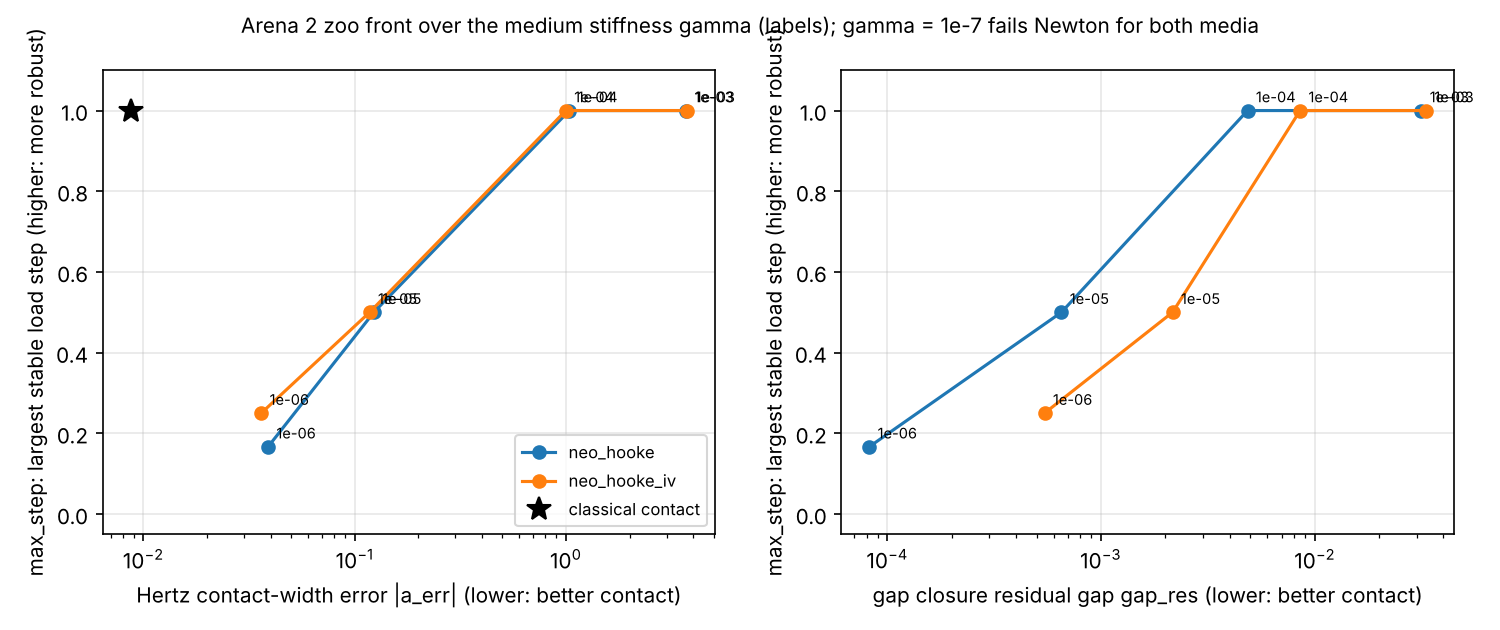
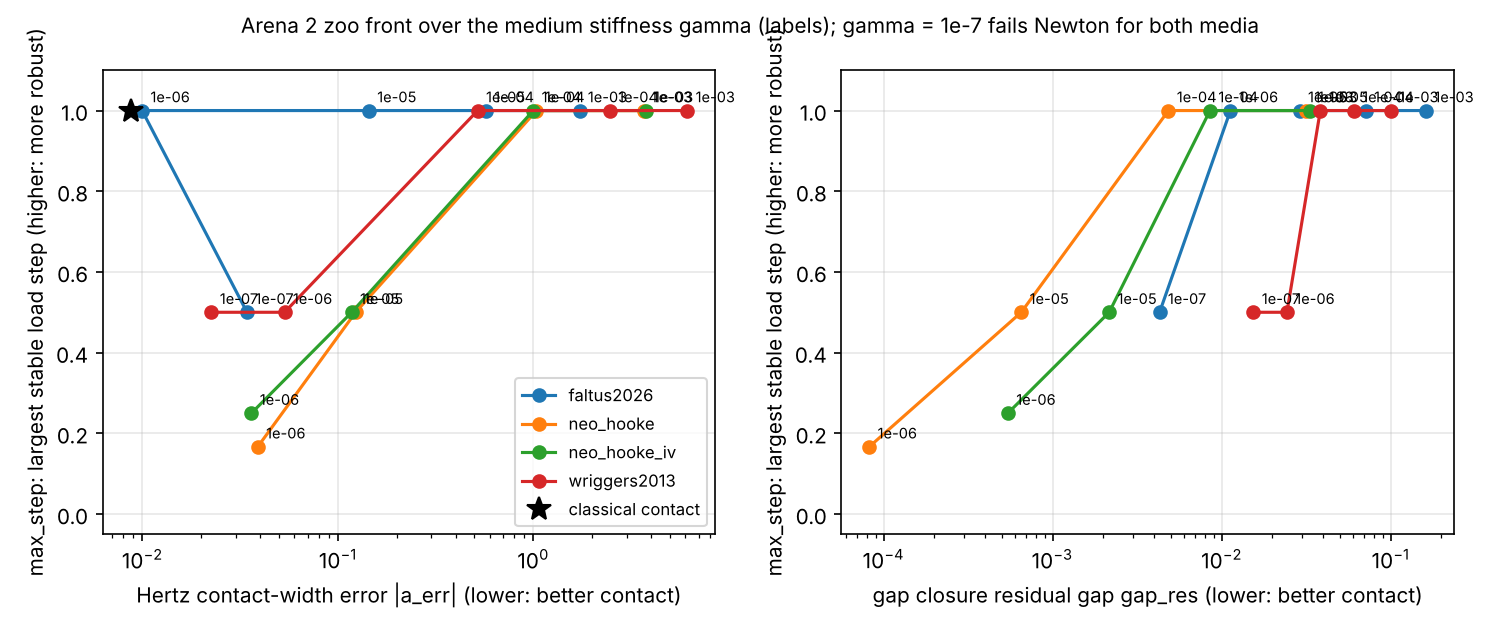
Zoo front with four media: robustness against residual gap is a second trade-off axis
Claude-Session: https://claude.ai/code/session_012NNvbST4F1YsRnWf9MuM3m

diff --git a/docs/judge/contact_baseline.md b/docs/judge/contact_baseline.md
@@ -1,24 +1,36 @@
-# Arena 2 zoo front (Phase 6 step 5, 2026-11-03, cloud session, judge contact-v0.7.dev)
+# Arena 2 zoo front (Phase 6 step 5, 2026-11-03, cloud session, judge contact-v0.8.dev)
 
 PLAN §14.7 asks whether the zoo shows the trade-off in the medium's stiffness scale γ: a softer medium leaks less
 force before contact and leaves less residual gap, but Newton becomes less robust. If it does not, Phase 7 has no
 target and Arena 2 stops here (plan Gate 6 item 4).
 
-**Result: the trade-off exists, for both zoo media.** As γ falls from 1e-3 to 1e-6, the gap-closure leak and residual
-gap fall by three orders of magnitude and the Hertz contact-width error from several hundred per cent (γ = 1e-3) to about −4 %; at the same time
-the largest stable load step falls from the whole push to 1/4–1/6, the Newton iterations rise, and at γ = 1e-7 Hertz
-no longer converges. Classical frictionless contact (no medium) sits in the ideal corner: accurate (the judge's error
-floor) and robust in one step. No zoo medium reaches it; a better medium moves the front towards it.
+**Result: the trade-off exists, and the widened zoo shows two axes of it.**
+- *Within each medium* (over γ): as γ falls, leak and Hertz error fall by orders of magnitude while Newton cost rises
+  and the largest stable load step falls; the neo-Hookean media fail at γ = 1e-7.
+- *Across media* (robustness against residual gap): the two newer media (faltus2026, wriggers2013) stay robust much
+  further. faltus2026 at γ = 1e-6 is as accurate in Hertz as the judge's error floor (a_err +1.0 %) and converges in a
+  single load step; wriggers2013 still converges at γ = 1e-7. They pay with a residual gap in gap closure of 1–4 %
+  (neo-Hookean: 0.001–0.07 % at the same γ).
+- Classical frictionless contact (no medium) sits in the ideal corner: no leak, no residual gap, accurate to the
+  error floor, one load step. No zoo medium reaches it on all axes at once.
+
+Widening the zoo mattered: a Target D drawn from the neo-Hookean media alone would have been beaten outright by the
+published 2026 medium.
 
 ![front](figures/contact_front.png)
 
 Measured with `scripts/contact_front.py` (judge functions, dev-mesh cases, not registered runs; data in
-docs/judge/baseline/contact_front.json; registered zoo runs are in STATUS). C0a: gap closure (confined), γ as
-listed. C2: Hertz on the dev mesh with the judge's fixed regularization kr = 5e-7. max_step: 1 / fewest of 1, 2, 3,
-4, 6, 8, 12 equal load steps in which C2 converges.
+docs/judge/baseline/contact_front.json; registered zoo runs are in STATUS). C0a: gap closure (confined). C2: Hertz on
+the dev mesh with the judge's fixed regularization kr = 5e-7. max_step: 1 / fewest of 1, 2, 3, 4, 6, 8, 12 equal load
+steps in which C2 converges.
 
 | Medium | γ | C0a leak_pre | C0a gap_res | C2 a_err | C2 p0_err | C2 leak_out | C2 Newton iterations | max_step |
 |---|---|---|---|---|---|---|---|---|
+| faltus2026 | 1e-03 | 3.30e-02 | 1.62e-01 | +1.723 | -0.2855 | 0.178 | 51 | 1.000 |
+| faltus2026 | 1e-04 | 3.72e-03 | 7.13e-02 | +0.572 | -0.1328 | 0.064 | 51 | 1.000 |
+| faltus2026 | 1e-05 | 3.77e-04 | 2.90e-02 | +0.144 | -0.0513 | 0.043 | 56 | 1.000 |
+| faltus2026 | 1e-06 | 3.78e-05 | 1.13e-02 | +0.010 | -0.0151 | 0.019 | 62 | 1.000 |
+| faltus2026 | 1e-07 | 3.78e-06 | 4.30e-03 | -0.034 | -0.0004 | 0.012 | 77 | 0.500 |
 | neo_hooke | 1e-03 | 1.87e-02 | 3.16e-02 | +3.702 | -0.2194 | 0.206 | 47 | 1.000 |
 | neo_hooke | 1e-04 | 1.94e-03 | 4.85e-03 | +1.038 | -0.0374 | 0.056 | 56 | 1.000 |
 | neo_hooke | 1e-05 | 1.95e-04 | 6.53e-04 | +0.123 | +0.0012 | 0.016 | 62 | 0.500 |
@@ -29,20 +41,26 @@ listed. C2: Hertz on the dev mesh with the judge's fixed regularization kr = 5e-
 | neo_hooke_iv | 1e-05 | 1.45e-04 | 2.16e-03 | +0.118 | -0.0006 | 0.015 | 69 | 0.500 |
 | neo_hooke_iv | 1e-06 | 1.45e-05 | 5.44e-04 | -0.036 | +0.0065 | 0.011 | 76 | 0.250 |
 | neo_hooke_iv | 1e-07 | 1.45e-06 | 1.37e-04 | fails | — | — | — | 0.000 |
+| wriggers2013 | 1e-03 | 5.89e-02 | 1.00e-01 | +6.132 | -0.4306 | 0.421 | 45 | 1.000 |
+| wriggers2013 | 1e-04 | 6.46e-03 | 6.07e-02 | +2.462 | -0.1003 | 0.089 | 57 | 1.000 |
+| wriggers2013 | 1e-05 | 6.53e-04 | 3.84e-02 | +0.519 | -0.0348 | 0.025 | 61 | 1.000 |
+| wriggers2013 | 1e-06 | 6.53e-05 | 2.44e-02 | +0.053 | -0.0155 | 0.014 | 68 | 0.500 |
+| wriggers2013 | 1e-07 | 6.54e-06 | 1.54e-02 | -0.023 | -0.0060 | 0.011 | 74 | 0.500 |
 | classical | — | 0.00e+00 | 0.00e+00 | +0.009 | -0.0047 | 0.000 | 37 | 1.000 |
 
-## The zoo, and what is missing
+## The zoo and its sources
 
 | Member | Source | State |
 |---|---|---|
 | `neo_hooke` | compressible neo-Hooke scaled by γ, the isotropic medium of Bluhm, Sigmund and Poulios (2021) | in the zoo |
-| `neo_hooke_iv` | felupe's isochoric–volumetric neo-Hooke form (volumetric term finite as J → 0); a FElupe variant, not claimed as a published third-medium formulation | in the zoo |
+| `neo_hooke_iv` | felupe's isochoric–volumetric neo-Hooke form; a FElupe variant, not claimed as a published third-medium formulation | in the zoo |
+| `wriggers2013` | Wriggers, Schröder and Schwarz (2013), transversely isotropic medium, **as implemented in felupe's example ex20** (felupe v9 docs, provided by Peter); the paper itself was not available. Its anisotropic invariant equals the smallest principal squared stretch, so it is a function of C | in the zoo |
+| `faltus2026` | Faltus, Amato and Horák (2026, arXiv 2603.13063) Eq. (1)–(2), the squared isochoric term as printed, κ_char = λ + 2μ/3; the paper's linear-elastic pre-contact term needs F and does not fit the slot | in the zoo |
 | classical penalty contact | felupe ContactRigidPlane; not a medium, the reference corner | in the front |
-| Wriggers, Schröder and Schwarz (2013) anisotropic medium | needs a contact-direction field the ψ(C) slot does not have (a planned later slot) | pending: formula to be taken from the paper, not from memory |
-| mixed formulation (felupe ThirdMediumContactMixed) | a different formulation with an extra field, not a ψ(C) candidate | pending: reference point outside the slot, source to be checked |
-| friction model ("Adding friction to Third Medium Contact") | Target E, deferred (D4) | not in Phase 6 |
+| mixed formulation | Vorwerk, Schröder and Wriggers (CMAME 463, 2027; felupe ThirdMediumContactMixed): a regularization alternative (extra field θ ≈ H), not a medium | for the regularization slot, not this front |
+| deformation-gradient averaging, ∇Q/∇R/∇φ/DivF/∇F_skw/∇J penalties | Faltus et al. 2026 and works cited there: regularizations | for the regularization slot |
+| friction model | Target E, deferred (D4) | not in Phase 6 |
 
-The two media trace almost the same accuracy–robustness curve in Hertz; neo_hooke_iv is slightly more robust at
-γ = 1e-6 (max_step 1/4 vs 1/6, 76 vs 87 iterations) at the cost of a 4–7 times larger residual gap in C0a. They are two
-points of one family, so the front is narrow: the pending members would widen it. Target D (step 6) is pre-registered
-from this front; it should rest on a_err and p0_err (mesh-stable, contact_spec.md §mesh_sens) and on max_step.
+Target D (step 6) is pre-registered from this front. It should rest on a_err and p0_err (mesh-stable,
+contact_spec.md §mesh_sens), max_step, and gap_res, and it must beat the best zoo medium on the axis it claims
+without losing on the others: the new axis (robustness against residual gap) is where the zoo itself already spreads.

diff --git a/docs/STATUS.md b/docs/STATUS.md
@@ -44,8 +44,10 @@ HX max_step 0.25, mesh_sens_a_err 0.0066. Worst values: GF force_err 0.115, gap_
 Windows git. Step 5 (cloud, 2026-11-03, contact-v0.7.dev 48ced4b): zoo
 member neo_hooke_iv (FElupe variant); front over gamma 1e-3..1e-7 in docs/judge/contact_baseline.md: **the trade-off
 exists** (accuracy improves by orders of magnitude as gamma falls, max_step falls from 1 to 1/6, gamma 1e-7 fails);
-classical contact is the ideal corner. Pending zoo members (Wriggers 2013, mixed formulation) need their sources.
-Next: step 6 (blind audit, Target D pre-registration, tag contact-v1.0).
+classical contact is the ideal corner. Zoo widened (contact-v0.8.dev cbd5854): wriggers2013
+(via felupe ex20) and faltus2026 (arXiv 2603.13063 Eq. 1); the newer media are far more robust (faltus2026 gamma 1e-6:
+Hertz a_err +1.0 %, one load step) at a 1-4 % residual gap: a second trade-off axis. Mixed formulation and other
+regularizations belong to the regularization slot. Next: step 6 (blind audit, Target D pre-registration, tag).
 Handoff 2026-10-28: docs/HANDOFF.md (next steps, open items, traps). sforge MCP server did not connect from the
 desktop session on 2026-10-28; restart it before round-4 evolve.
 2026-10-28 (desktop): evolve e-20261028-201918-36b6 stopped after gen 0 (16/16 rejected, 14 false timeouts, $1.17;
